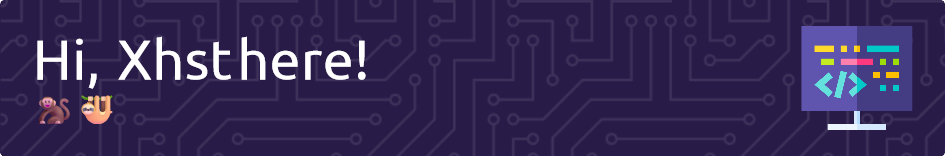
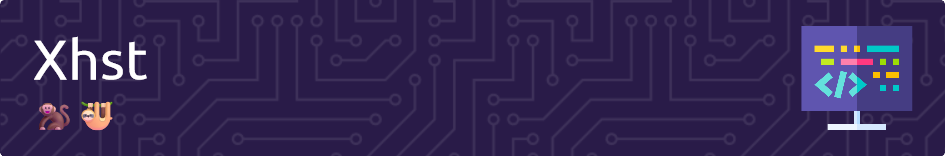
edited header image

Changed region(s): [[0.0307, 0.2308, 0.3989, 0.5641], [0.0307, 0.6154, 0.1228, 0.8462]]

diff --git a/README.md b/README.md
@@ -1,4 +1,6 @@
 ![Header](./assets/github-header.png)
+
+I'm Mattia (aka Xhst or Shux) a computer engineering student at Roma Tre University.
 #
 <p align="center"> 
 <img src="https://github-readme-stats.vercel.app/api?custom_title=📈%20GitHub%20Stats&hide_rank=true&show_icons=true&include_all_commits=true&disable_animations=false&locale=en&hide_border=true&theme=jolly&username=Xhst" width="400" height="250" alt="stats graph"  /> 
